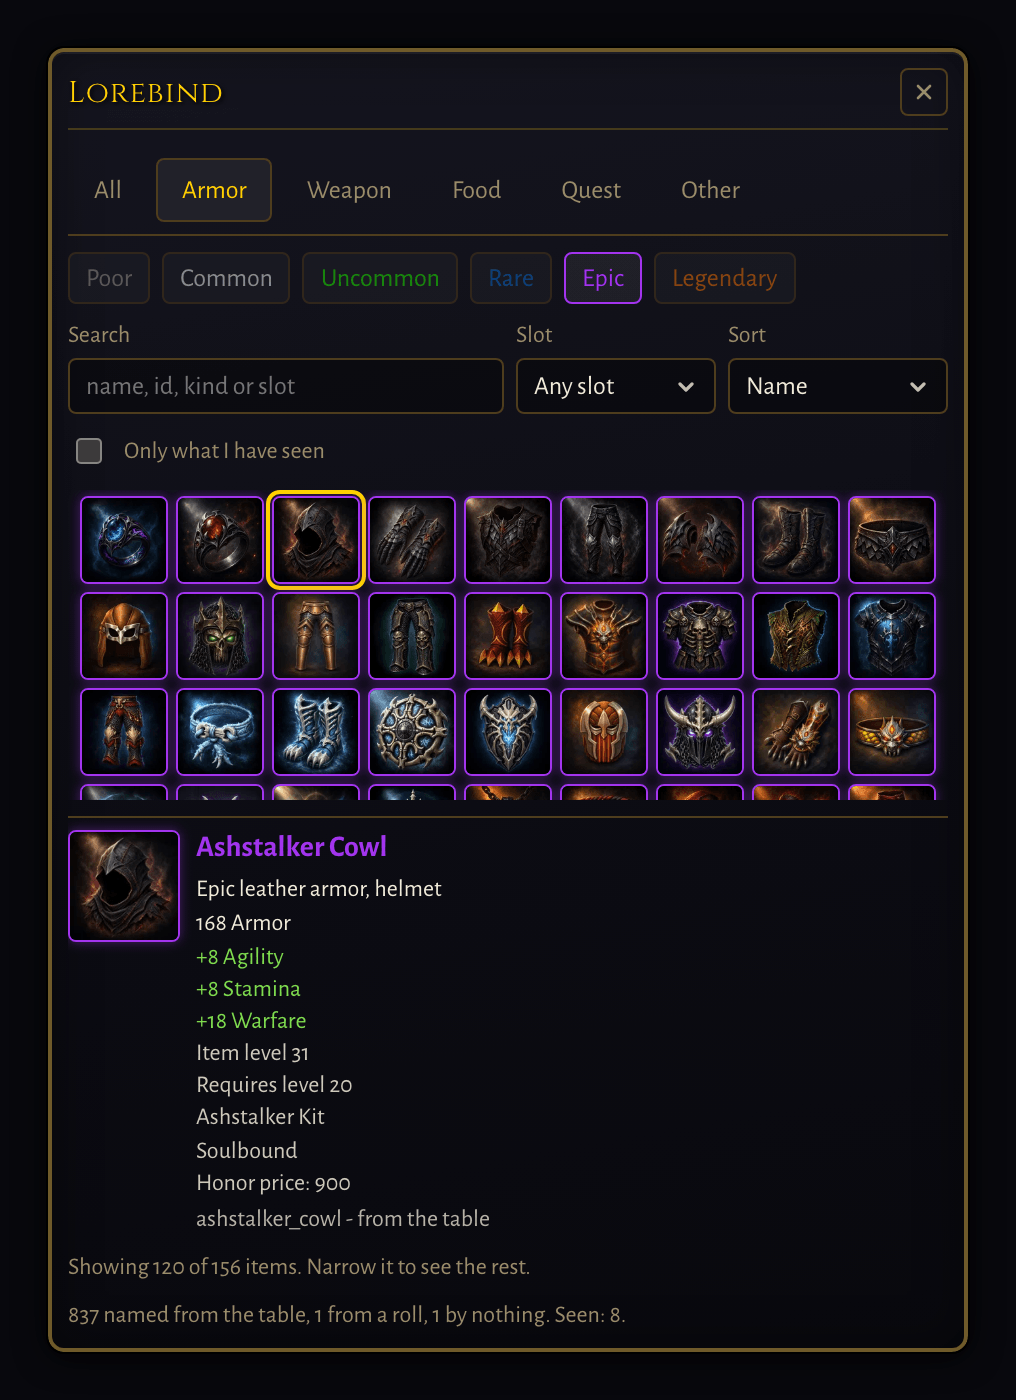
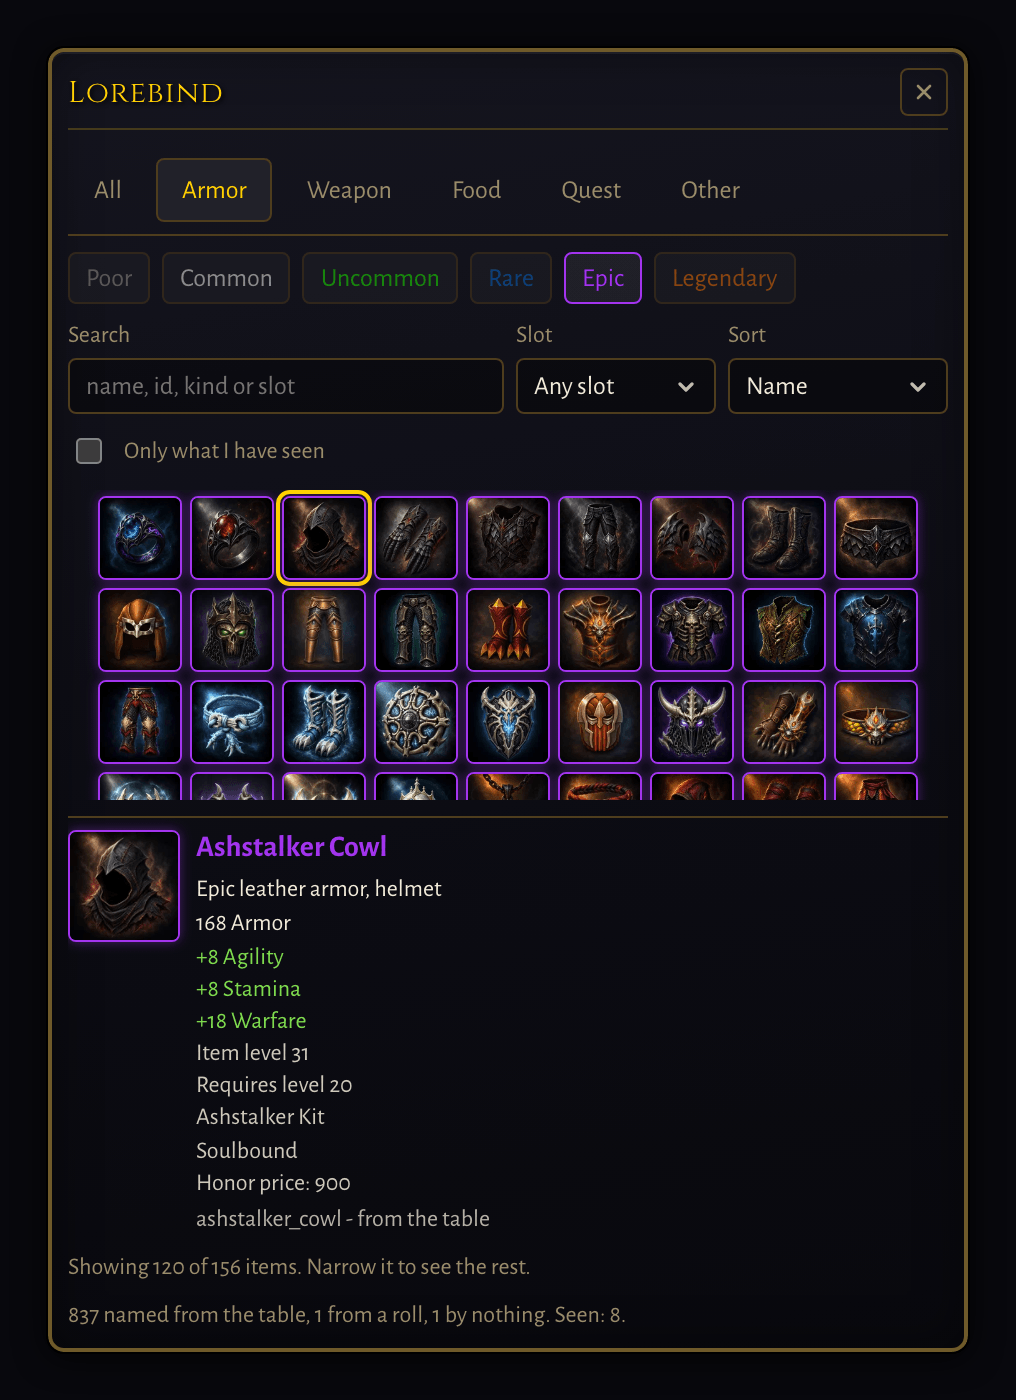
Add ui.itemCell and draw both item grids at the game's own size

Changed region(s): [[0.061, 0.3379, 0.9459, 0.5836]]

diff --git a/packages/types/economy.d.ts b/packages/types/economy.d.ts
@@ -91,7 +91,14 @@ export interface MarketSaleRecord {
 export interface MarketInfo {
   /** Your own listings first, then one page of everyone else's. */
   listings: readonly MarketListing[];
-  /** Every listing matching the filter, yours included, across all pages. */
+  /**
+   * Every ROW matching the filter, yours included, across all pages.
+   *
+   * Rows rather than listings, because `collapseLowest` narrows this as well as
+   * the page: with it on the collapse happens before the count, so this is how
+   * many distinct items matched, and how many listings stand behind each of them
+   * is not on the wire at all.
+   */
   totalCount: number;
   /** The search string the server actually applied. */
   filter: string;
@@ -116,18 +123,26 @@ export interface MarketInfo {
   /**
    * The server COLLAPSED the matched book to one row per item id, cheapest first.
    *
-   * A narrowing of the ROWS and not of the match, so it changes what a page means
-   * without changing what `totalCount` counts: with this on, the page is one
-   * price floor per item and the count above it is how many listings stand behind
-   * those floors. Anything reading depth out of a page has to read this first, or
-   * it reports a market of one seller per item. Instanced listings stay distinct,
-   * since no two of them are the same goods.
+   * It narrows the ROWS and both COUNTS, which is what makes it more than a
+   * display option. The collapse runs before the page is cut and before the count
+   * is taken, so `totalCount` and `pageCount` are both over collapsed rows: with
+   * this on, nothing on the wire says how many listings stand behind a floor, and
+   * a page cannot be read for depth at all.
+   *
+   * What it gives back is the strongest single reading Browse offers. The filter
+   * is a function of the item id alone, so all of an item's listings match or
+   * none do, which makes a collapsed row that item's cheapest listing in the
+   * WHOLE BOOK rather than merely on this page. Your own listings collapse with
+   * everyone else's, so one of yours on the page is one nobody has undercut, and
+   * one that is missing has been undercut by the row standing in its place.
+   * Instanced listings stay distinct, since no two of them are the same goods.
    *
    * Added in game 0.38.0.
    */
   collapseLowest: boolean;
   /** Clamped by the server against the live match count, so this is the page you got. */
   page: number;
+  /** Over the collapsed rows wherever `collapseLowest` is set. Read it first. */
   pageCount: number;
   /** Sale proceeds waiting at the Merchant. */
   collectionCopper: number;
@@ -174,6 +189,13 @@ export interface MarketInfo {
    * Sell tab and null the rest of the time, which is most of the time. `sellValue`
    * on an item is still the only reference always available, and a price series
    * is still something an addon builds by recording the pages its player browses.
+   *
+   * It counts EVERY active listing of that item, including the Merchant's own
+   * stock and the player's own rows, because a buyer can take either instead of
+   * the one being staged. So it is the price nothing resells above, and it is not
+   * the cheapest RIVAL: an unguarded undercut of it can be a player undercutting
+   * themselves. It is also a stack's price divided by the stack and rounded UP,
+   * so it sits at or just above the true per-unit figure and never below it.
    *
    * Added in game 0.38.0.
    */

diff --git a/addons/dev-harness/main.js b/addons/dev-harness/main.js
@@ -1492,17 +1492,25 @@ function checkToggleKey() {
 }
 
 /**
- * The three surfaces a display that scales with its own frame is built out of: the box the
- * loader is holding, the arithmetic that divides it, and the height that goes onto a row.
+ * The four surfaces a display sized against the game is built out of: the box the loader
+ * is holding, the arithmetic that divides it, the height that goes onto a row, and the
+ * square the game draws one item at.
  *
  * Measured rather than asserted where it can be. `ui.units` is pure and answers here; the
  * row height is a custom property the sheet derives from, so the check is that the derived
- * height actually reached the element, which is the half no suite can see.
+ * height actually reached the element, which is the half no suite can see. The item cell
+ * can only be reported, since nothing on the page holds the figure it was copied from.
  */
 function checkScaling() {
-  const { units, bar } = woc.ui;
+  const { units, bar, itemCell } = woc.ui;
   if (typeof units !== 'function' || typeof bar !== 'function') {
     return result('scaling', false, 'ui.units or ui.bar is not callable');
+  }
+  // A number rather than a function, so the failure to catch is the member never having
+  // been wired to the object an addon is handed: that reads as `undefined`, and an addon
+  // sizing a grid off it lays every square out at NaN pixels rather than throwing.
+  if (typeof itemCell !== 'number' || !Number.isFinite(itemCell) || itemCell <= 0) {
+    return result('scaling', false, `ui.itemCell is ${String(itemCell)} rather than a size`);
   }
   const share = units(SCALE_BOX, { count: SCALE_ROWS, gap: SCALE_GAP, min: SCALE_MIN });
   const probe = woc.ui.frame({ id: 'scale-probe', title: 'Probe', width: SCALE_WIDTH });
@@ -1536,13 +1544,21 @@ function checkScaling() {
       `a sized row carries "${written}" rather than ${String(share)}`,
     );
   }
+  const cell = `item cell ${String(itemCell)}px`;
   if (!sheetLive()) {
-    return result('scaling', true, 'units and frame.box() agree, no sheet here to size a row');
+    return result(
+      'scaling',
+      true,
+      `units and frame.box() agree, no sheet here to size a row, ${cell}`,
+    );
   }
   if (tall !== share) {
     return result('scaling', false, `a row asked for ${String(share)} drew ${String(tall)} tall`);
   }
-  return result('scaling', true, `box, units and a ${String(tall)}px row all agree`);
+  // The cell is REPORTED rather than checked against anything: it is a transcription of
+  // the game's own bag grid, so the figure in front of somebody running this against a
+  // live client is the only thing that can tell them the reading has gone stale.
+  return result('scaling', true, `box, units and a ${String(tall)}px row all agree, ${cell}`);
 }
 
 /**

diff --git a/addons/satchel/main.js b/addons/satchel/main.js
@@ -82,9 +82,14 @@ const MAX_SLOTS = 72;
  * The square, and the floor a resize may take the grid to. No column count: the grid is a
  * wrapping track list, so the browser refits it. The floor is stated because a frame's bounds
  * are settled when it is built, and a grid two squares across is a list drawn the hard way.
+ *
+ * The square is the loader's, which is the game's: a bag drawn beside the game's own bags
+ * should be the same size as them, and the figure this panel had picked for itself was a
+ * third smaller, which also put every cell under the tap target a phone needs. The gap is
+ * the game's 4 to go with it.
  */
-const CELL_SIZE = 32;
-const CELL_GAP = 3;
+const CELL_SIZE = woc.ui.itemCell;
+const CELL_GAP = 4;
 const MIN_COLUMNS = 6;
 const MIN_ROWS = 3;
 
@@ -98,10 +103,14 @@ const STAT_GAP = 4;
 const STRIP_GAP = 10;
 const STRIP_WRAP_GAP = 2;
 
-/** Wide enough for five tabs on one row: measured at 279px of the 324 the padding leaves. */
-const FRAME_WIDTH = 340;
-/** Tall enough for a backpack of 16 squares, its bar, its strip and the tabs above. */
-const FRAME_HEIGHT = 420;
+/**
+ * Eight squares across, which is what the width is FOR: a 16 slot backpack is then exactly two
+ * rows and a full 72 exactly nine, so no bag ever ends on a part-filled row. The five tabs fit
+ * on one line inside it with room to spare, measured at 279px of the 364 the padding leaves.
+ */
+const FRAME_WIDTH = 380;
+/** Five rows of squares under the chrome: the whole backpack, and 40 of the 72 a player holds. */
+const FRAME_HEIGHT = 460;
 /** Carried twice by the width. It belongs to `.woc-addon-frame` rather than to a density. */
 const FRAME_PADDING = 8;
 /**
@@ -1177,8 +1186,9 @@ function createGrid(name) {
   el.className = 'woc-satchel-grid';
   el.dataset.grid = name;
   el.style.display = 'grid';
-  // A FIXED track rather than `minmax(32px, 1fr)`: a stretched track stretches the square in it,
-  // and a bag cell that changes shape with the window is worse than a centred grid.
+  // A FIXED track rather than the game's own `minmax(42px, 1fr)`: a stretched track stretches
+  // the square in it, and a bag cell that changes size with the window is worse than a
+  // centred grid. The square itself is the game's, which is what `ui.itemCell` carries.
   el.style.gridTemplateColumns = `repeat(auto-fill, ${String(CELL_SIZE)}px)`;
   el.style.gap = `${String(CELL_GAP)}px`;
   el.style.justifyContent = 'center';

diff --git a/loader/src/runtime/ui/kit/item-cell.ts b/loader/src/runtime/ui/kit/item-cell.ts
@@ -1,0 +1,35 @@
+// How large one square of item art is, transcribed from the game's own bag grid.
+//
+// The game draws every grid of items at `repeat(auto-fill, minmax(42px, 1fr))` over a
+// `gap: 4px`, in `.bag-grid` (`src/styles/components.css`). Nothing serves that number
+// and nothing ever will: it is a rule in a content-hashed stylesheet, so an addon
+// either transcribes it or invents one, and two addons in the catalogue had invented
+// two, 32px and 44px, for grids drawing the same art side by side. This is the one
+// transcription, with the same standing as the quality palette in `styles/quality.css`
+// and the theme the stage reads: a by-hand reading of a deployed game, correct until
+// somebody checks it again.
+//
+// The reading passes the test this project asks of any number copied out of the game,
+// which is what QUERY it was found in. `.bag-grid` sits in `@layer components` with no
+// media wrapper, so 42 is the desktop figure as well as the touch one. That is the
+// opposite of the tap-target floor, where 40px was lifted out of `@media (pointer:
+// coarse)` and applied unconditionally, and every loader panel came out a third larger
+// than the game window beside it.
+//
+// It also carries the touch floor for free, which is the half no stylesheet here can
+// do. The game's own note on `.bag-item` says the 42px column keeps every cell at or
+// above 40x40 for SC 2.5.8. `ui/styles/touch.css` cannot reach a tile to do the same,
+// because a tile's size arrives as an inline custom property and an inline style
+// outranks every selector a sheet can spell, so a grid built at 32px is under the tap
+// target on a phone with nothing able to raise it.
+//
+// It is published as a NUMBER rather than as a track, because the game's `1fr` half is
+// a decision an addon should keep making for itself: a stretched track stretches the
+// square in it, and a bag cell that changes size as the player drags the frame is
+// worse than a grid that stays put and centres. Both addons here pass it to
+// `ui.tile({ size })` and repeat it as a fixed track.
+
+/** The game's own bag cell. See the note above before changing it. */
+const ITEM_CELL_PX = 42;
+
+export { ITEM_CELL_PX };

diff --git a/packages/types/ui.d.ts b/packages/types/ui.d.ts
@@ -353,6 +353,32 @@ export interface UiApi {
    * has not been measured yet gives back a usable number rather than a NaN.
    */
   units: (available: number, opts?: UnitOpts) => number;
+  /**
+   * One square of item art, at the size the game draws its own bags. Since apiMinor 7.
+   *
+   * The game lays every grid of items out at `minmax(42px, 1fr)` over a 4px gap, and
+   * nothing serves that number, so an addon either transcribes it or invents one. Two
+   * in this catalogue had invented two, and grids drawing the same art sat side by side
+   * at different sizes. Use it as the tile's `size` and as the grid's own track:
+   *
+   * ```js
+   * const cell = woc.ui.itemCell;
+   * grid.style.gridTemplateColumns = `repeat(auto-fill, ${cell}px)`;
+   * grid.style.gap = '4px';
+   * const square = woc.ui.tile({ size: cell });
+   * ```
+   *
+   * A fixed track rather than the game's `1fr`, deliberately: a stretched track
+   * stretches the square in it, and a cell that changes size as the player drags the
+   * frame is worse than a grid that stays put and centres.
+   *
+   * It carries the touch floor with it, which is the reason not to pick a smaller
+   * number for a denser panel. The game's own note ties this figure to keeping every
+   * cell at or above the 40x40 tap target, and the loader's coarse-pointer sheet cannot
+   * reach a tile to enforce it: a tile's size arrives as an inline custom property, and
+   * an inline style outranks every selector a stylesheet can spell.
+   */
+  itemCell: number;
   /** Where the game's own art lives, so no addon writes a path. */
   icon: IconUrls;
   /**

diff --git a/addons/satchel/stage.ts b/addons/satchel/stage.ts
@@ -428,15 +428,17 @@ async function onTab(stage: Stage, label: string): Promise<void> {
   await pause(SETTLE_MS);
 }
 
-/** A size the frame is genuinely draggable to: at its opening 340 by 420 the shot is chrome. */
+/** A size the frame is genuinely draggable to: at its opening 380 by 460 the shot is chrome. */
 const WIDENED = { x: 80, y: 120, w: 420, h: 560 };
 
 /**
  * ONE height for both preview panels: a sheet centres its panes against each other, so two of
  * different heights read as one that has slipped. Matched on the GRID's, since a list pane is
- * full at any height and a bag grid is only as tall as its cell ceiling.
+ * full at any height and a bag grid is only as tall as its cell ceiling. The height is the
+ * frame's own, which lands the grid on exactly five whole rows: a bag ending on a half row of
+ * empty sockets is the one thing in this shot that reads as the panel having been cut off.
  */
-const SHEET_BOX = { x: 80, y: 120, w: 420, h: 440 };
+const SHEET_BOX = { x: 80, y: 120, w: 420, h: 460 };
 
 function framed(box: typeof WIDENED = WIDENED): Record<string, FrameState> {
   return { bags: { box, visible: true } };

diff --git a/loader/src/runtime/world/signature-economy.ts b/loader/src/runtime/world/signature-economy.ts
@@ -65,10 +65,12 @@ function slotsOf(source: unknown, field: string): string {
  * rows happen to come back in the same order, reorders into an identical listing
  * array under a different reading of the same book.
  *
- * `collapseLowest` rides for the stronger version of that reason. It narrows the
- * rows without narrowing the match, so toggling it can leave `totalCount` and the
- * page bounds exactly where they were while every row on screen now means one
- * item's price floor instead of one listing.
+ * `collapseLowest` rides for the same reason at the case where it is hardest to
+ * see. It does move the counts, since the collapse runs before both of them, but
+ * on a book where every matched item has exactly one listing it moves nothing at
+ * all: same rows, same ids, same counts, same bounds, and a page that now means
+ * one price floor per item rather than one listing per row. The flag is the only
+ * thing that differs there, so it is the only thing that can report the change.
  */
 function queryOf(info: unknown): string {
   return [

diff --git a/loader/src/runtime/api/ui-layout.ts b/loader/src/runtime/api/ui-layout.ts
@@ -5,8 +5,9 @@
 // plain elements the addon appends into its own frame, and the frame's teardown
 // takes the whole tree with it. Contrast a bar, a tile or a list, each of which the
 // addon may put in DOM the loader does not own and each of which holds something of
-// its own to release. `show` and `units` build nothing at all.
+// its own to release. `show`, `units` and `itemCell` build nothing at all.
 
+import { ITEM_CELL_PX } from '../ui/kit/item-cell.ts';
 import { createColumn, createLine, createRow, show } from '../ui/kit/layout.ts';
 import { units } from '../ui/kit/units.ts';
 
@@ -20,6 +21,7 @@ interface LayoutSurface {
   line: (opts?: Parameters<typeof createLine>[1]) => HTMLElement;
   show: typeof show;
   units: typeof units;
+  itemCell: number;
 }
 
 function layoutSurface(deps: LayoutDeps): LayoutSurface {
@@ -29,6 +31,7 @@ function layoutSurface(deps: LayoutDeps): LayoutSurface {
     line: (opts) => createLine(deps.doc, opts),
     show,
     units,
+    itemCell: ITEM_CELL_PX,
   };
 }
 

diff --git a/addons/satchel/main.test.ts b/addons/satchel/main.test.ts
@@ -1689,11 +1689,15 @@ describe('its layout', () => {
 
   // A wrapping track list rather than a column count, so the squares follow the frame
   // as it is dragged with no measurement and no resize handler in the addon at all.
+  //
+  // The 42 is `woc.ui.itemCell`, the game's own bag cell, written out rather than read
+  // from the loader: the number is what a player sees, so a change to it has to fail
+  // here and send somebody to re-capture the preview rather than passing silently.
   it('fits as many squares across as the frame is wide', async () => {
     const h = await start({ carry: { inventory: cells('ore', 20) } });
     await h.settle();
 
-    expect(gridEl('bags')?.style.gridTemplateColumns).toBe('repeat(auto-fill, 32px)');
+    expect(gridEl('bags')?.style.gridTemplateColumns).toBe('repeat(auto-fill, 42px)');
   });
 
   // A frame states no size bounds and takes the size it OPENED at as its floor, so

diff --git a/addons/lorebind/main.test.ts b/addons/lorebind/main.test.ts
@@ -134,9 +134,11 @@ const FQID = 'official/lorebind';
  * `woc.data` landed at minor 2 and the kit's item quality axis at 3. The grid is a `ui.list`
  * now, the counting lines are `ui.line`, the strips are `ui.row`, the repaint is `woc.paint`,
  * the count is `fmt.count`, the name service is `bus.publish` and the key is the frame's own
- * `toggleKey`: all of them minor 4, so the claim tracks the newest member rather than the oldest.
+ * `toggleKey`: all of them minor 4. The square a cell is drawn at is `ui.itemCell`, minor 7,
+ * and the claim tracks the newest member rather than the oldest. An addon reading it off an
+ * older loader gets `undefined`, and a grid whose track is `NaNpx` draws nothing at all.
  */
-const NEEDS_MINOR = 4;
+const NEEDS_MINOR = 7;
 
 /** The row `mountAddon` would build, for the one case that mounts the addon by hand. */
 function installedRow(): InstalledAddon {

diff --git a/addons/lorebind/main.js b/addons/lorebind/main.js
@@ -47,8 +47,12 @@ const FRAME_MIN_WIDTH = 340;
  */
 const CHROME_HEIGHT = 400;
 
-/** One square of item art, and the gap between two of them. */
-const CELL_SIZE = 44;
+/**
+ * One square of item art, and the gap between two of them. The square is the loader's, which
+ * is the game's own bag cell: a grid of items should be the size the game draws one at, and
+ * the figure this panel had picked for itself was two pixels off that by coincidence.
+ */
+const CELL_SIZE = woc.ui.itemCell;
 const CELL_GAP = 4;
 /** The record under the grid draws the same art larger, since it is one item rather than many. */
 const DETAIL_SIZE = 56;

diff --git a/loader/src/runtime/api/ui.ts b/loader/src/runtime/api/ui.ts
@@ -83,6 +83,8 @@ interface UiApi {
   show: (el: Element, shown: boolean) => void;
   /** How big one unit is when a box is divided between several. See kit/units.ts. */
   units: (available: number, opts?: UnitOpts) => number;
+  /** One square of item art, at the game's own bag grid. See kit/item-cell.ts. */
+  itemCell: number;
   /** Where the game's own art lives, so no addon writes a path. */
   icon: IconUrls;
   /**
